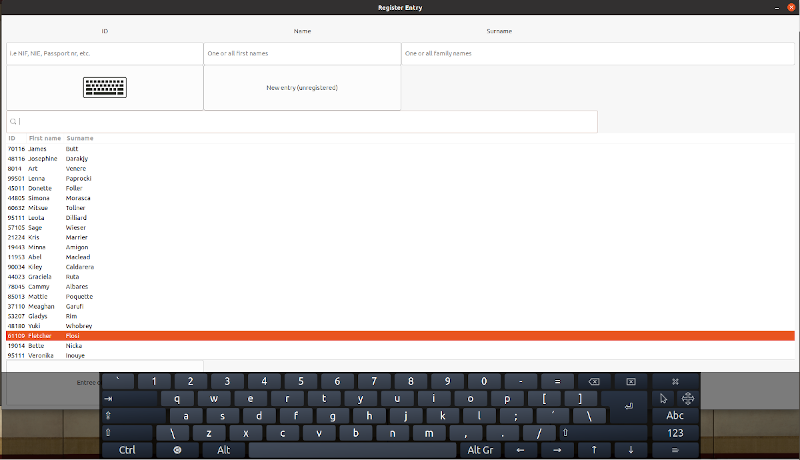
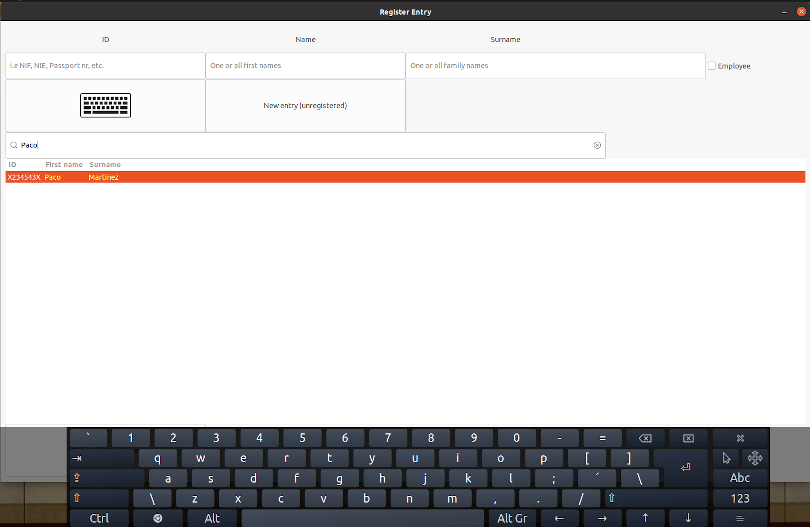
Updated README to reflect data entry/storage change

diff --git a/README.md b/README.md
@@ -18,7 +18,7 @@ The script's intended usage is on a simple Windows or Linux device, ideally with
 
 ![Register Entry](./register-entry.png)
 
-The script reads a list of names from the file *"employees.xlsx"* to show them in the list-box for easy selection. Manual entry is also supported. Both selected as well as manually entered names will be written to the file *"registered.xlsx"* with the date/time of entry. Both Excel files need be stored together in the same directory, the *data directory*. By default, the script will treat the current working directory (the "active" directory from which the command to execute the script was launched) as the *data directory*. Alternatively, the script can take one parameter consisting of the path to the *data directory*.
+The script reads a list of names from the file *"employees.xlsx"* to show them in the list-box for easy selection. Manual entry is also supported. Both selected as well as manually entered names will be written to the file *"entries.xlsx"* with the date/time of entry. In case of manual entry, if the user selects the check-box "employee", then their data will be written to the file *"employees.xlsx"* and shown in the list-box. This will allow them to select their name from the list the next time they enter. Both Excel files need be stored together in the same directory, the *data directory*. By default, the script will treat the current working directory (the "active" directory from which the command to execute the script was launched) as the *data directory*. Alternatively, the script can take one parameter consisting of the path to the *data directory*.
 
 for example:
 
